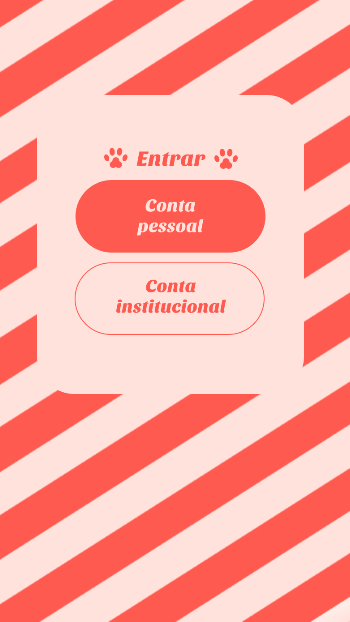
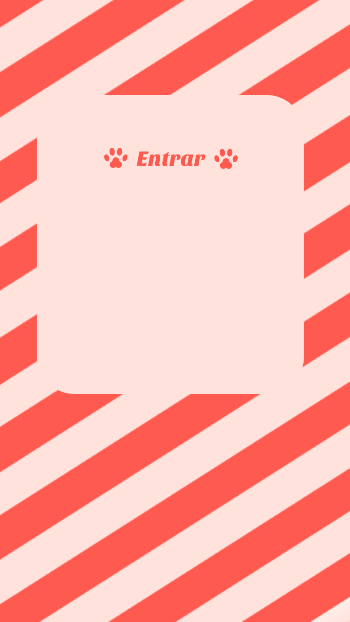
Botoes teste2

diff --git a/AppAdocaoAnimais/src/TranslucentButtonIconTest.java b/AppAdocaoAnimais/src/TranslucentButtonIconTest.java
@@ -1,0 +1,65 @@
+import java.awt.*;
+import java.awt.geom.*;
+import javax.swing.*;
+
+public  class TranslucentButtonIconTest {
+
+  public static JButton makeButton(String title) {
+    return new JButton(title) {
+      @Override public void updateUI() {
+        super.updateUI();
+        setVerticalAlignment(SwingConstants.CENTER);
+        setVerticalTextPosition(SwingConstants.CENTER);
+        setHorizontalAlignment(SwingConstants.CENTER);
+        setHorizontalTextPosition(SwingConstants.CENTER);
+        setBorder(BorderFactory.createEmptyBorder(2, 8, 2, 8));
+        setMargin(new Insets(2, 8, 2, 8));
+        setContentAreaFilled(false);
+        setFocusPainted(false);
+        setOpaque(false);
+        setForeground(Color.WHITE);
+        setIcon(new TranslucentButtonIcon());
+      }
+    };
+  }
+
+
+}
+
+class TranslucentButtonIcon implements Icon {
+  private static final int R = 8;
+  private int width;
+  private int height;
+  @Override public void paintIcon(Component c, Graphics g, int x, int y) {
+    if (c instanceof AbstractButton) {
+      AbstractButton b = (AbstractButton) c;
+      Insets i = b.getMargin();
+      int w = c.getWidth();
+      int h = c.getHeight();
+      width  = w - i.left - i.right;
+      height = h - i.top - i.bottom;
+      Graphics2D g2 = (Graphics2D) g.create();
+      g2.setRenderingHint(RenderingHints.KEY_ANTIALIASING,
+                          RenderingHints.VALUE_ANTIALIAS_ON);
+      Shape area = new RoundRectangle2D.Float(x - i.left, y - i.top, w - 1, h - 1, R, R);
+      Color color = new Color(0f, 0f, 0f, .3f);
+      ButtonModel m = b.getModel();
+      if (m.isPressed()) {
+        color = new Color(0f, 0f, 0f, .3f);
+      } else if (m.isRollover()) {
+        color = new Color(1f, 1f, 1f, .3f);
+      }
+      g2.setPaint(color);
+      g2.fill(area);
+      g2.setPaint(Color.WHITE);
+      g2.draw(area);
+      g2.dispose();
+    }
+  }
+  @Override public int getIconWidth()  {
+    return 122;
+  }
+  @Override public int getIconHeight() {
+	    return 46;
+  }
+}

diff --git a/AppAdocaoAnimais/src/ImagePanel.java b/AppAdocaoAnimais/src/ImagePanel.java
@@ -29,19 +29,12 @@ private Image img;
     setSize(size);
     setLayout(null);
   }
-	public JButton addButtonCenterUp(String s) {
-		JButton button=new JButton(s);    
-		button.setLocation(95,190);
+	public JButton addButton(String s, int x, int y) {
+		JButton button=TranslucentButtonIconTest.makeButton(s);    
+		button.setLocation(x,y);
         button.setSize(150, 50);
-
-		add(button);
-		return button;
-	}
-	public JButton addButtonCenterDown(String s) {
-		JButton button=new JButton(s);    
-		button.setLocation(95,275);
-        button.setSize(150, 50);
-
+        //button.setOpaque(false);
+        //button.setBorderPainted(false);
 		add(button);
 		return button;
 	}
@@ -50,3 +43,5 @@ private Image img;
     g.drawImage(img, 0, 0, null);
   }
 }
+
+
